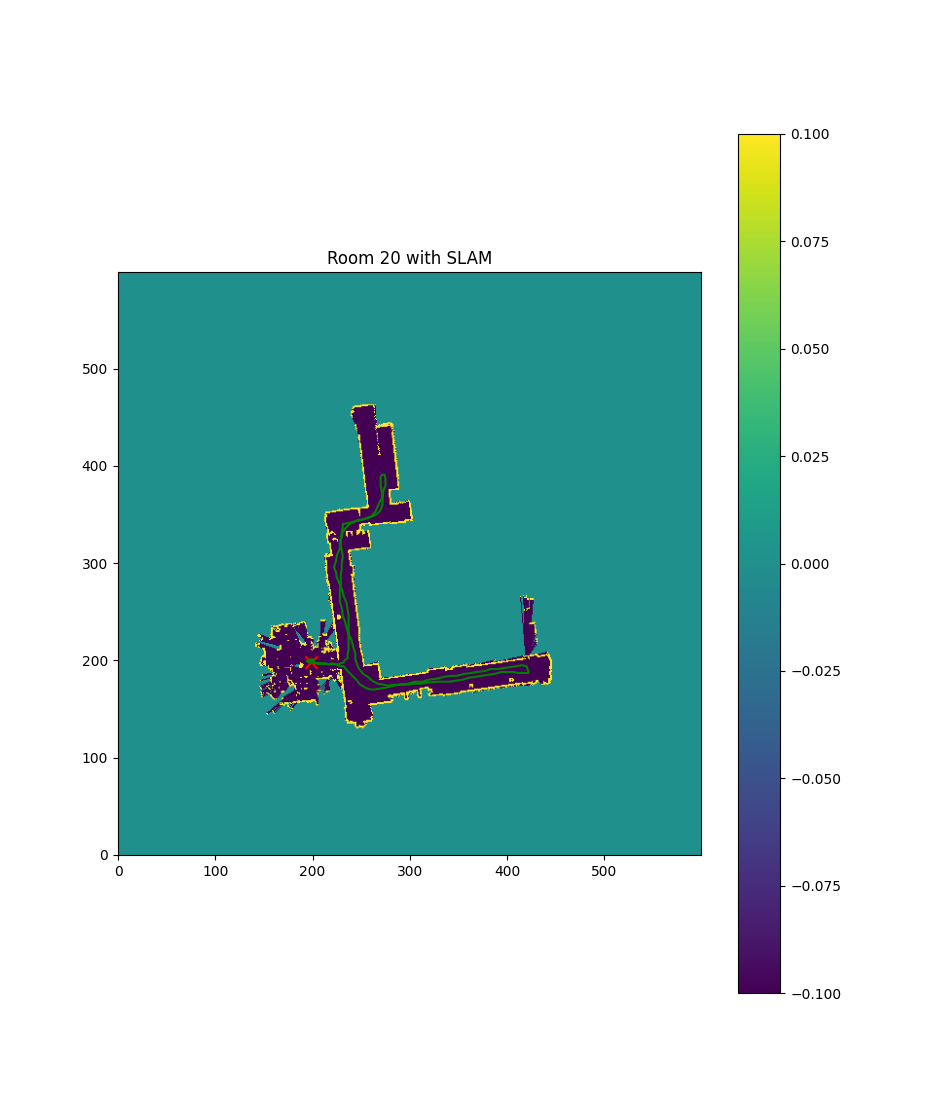
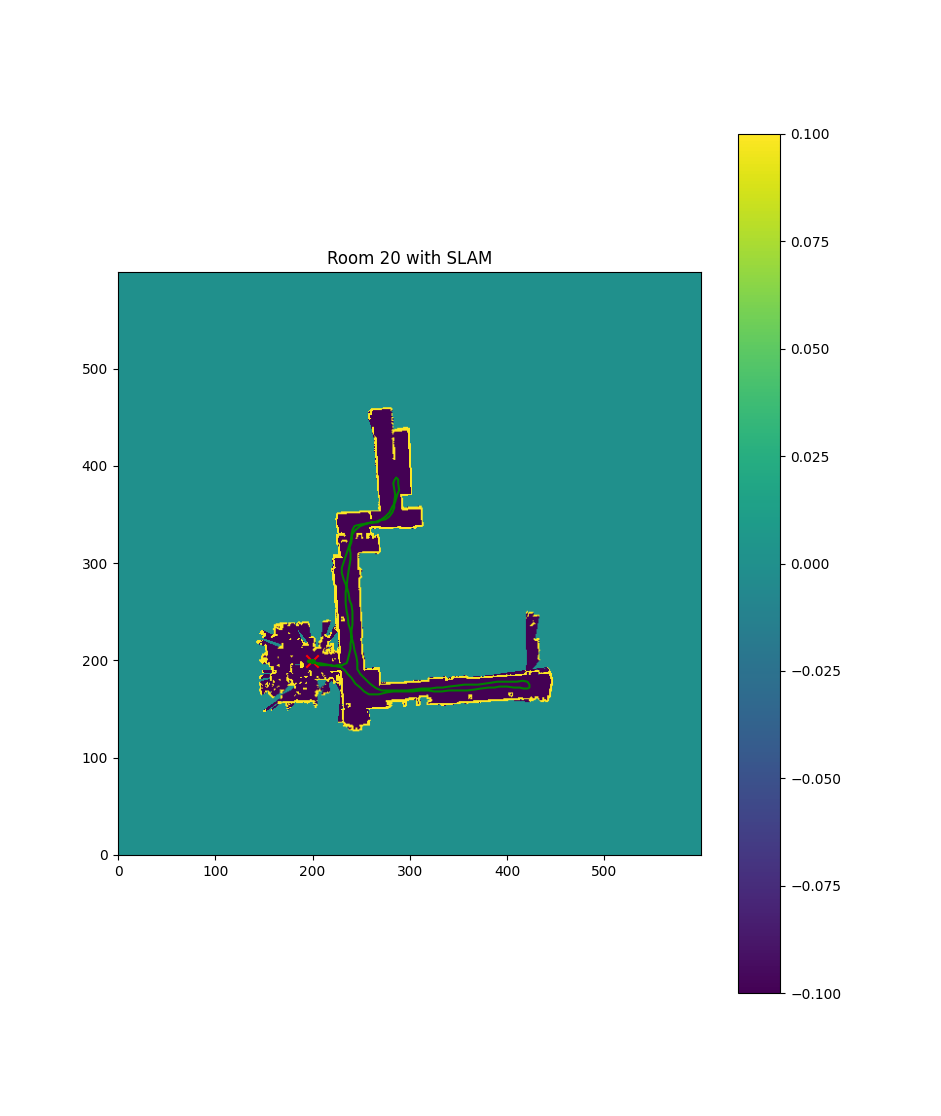
add test data results and clean up unused files from planning

Changed region(s): [[0.2774, 0.3656, 0.5855, 0.6703]]

diff --git a/scripts/run_slam.py b/scripts/run_slam.py
@@ -5,130 +5,120 @@ from slam_project.models.occupancy_grid import occupancy_grid
 from slam_project.localization import odometry as od
 from slam_project.io import load_data as ld
 
-# Noise Parameters
-movement_noise = 0.025
-angle_noise = 0.05
+def slam(room_name):
+    # Noise Parameters
+    movement_noise = 0.025
+    angle_noise = 0.05
 
-# Initialization (num_particles x (x,y,theta))
-num_particles = 100
-particles = np.zeros([num_particles, 3])
-particles[:, 0] = np.random.normal(0, movement_noise, num_particles)
-particles[:, 1] = np.random.normal(0, movement_noise, num_particles)
-particles[:, 2] = np.random.normal(0, angle_noise, num_particles)
-weights = np.ones(num_particles) * (1/num_particles)
+    # Initialization (num_particles x (x,y,theta))
+    num_particles = 100
+    particles = np.zeros([num_particles, 3])
+    particles[:, 0] = np.random.normal(0, movement_noise, num_particles)
+    particles[:, 1] = np.random.normal(0, movement_noise, num_particles)
+    particles[:, 2] = np.random.normal(0, angle_noise, num_particles)
+    weights = np.ones(num_particles) * (1/num_particles)
 
-# Odometry Step
-room_name = '23'
-enc_path = f'./data/train/Encoders{room_name}'
-imu_path = f'./data/train/imu{room_name}'
-lidar_path = f'./data/train/Hokuyo{room_name}'
-delta_forward, delta_perp, delta_theta, ts = od.compute_body_frame_odometry_at_lidar_times(
-    enc_path, imu_path, lidar_path, alpha=0.0
-)
+    # Odometry Step
+    room_name = room_name
+    enc_path = f'./data/Encoders{room_name}'
+    imu_path = f'./data/imu{room_name}'
+    lidar_path = f'./data/Hokuyo{room_name}'
+    delta_forward, delta_perp, delta_theta, ts = od.compute_body_frame_odometry_at_lidar_times(
+        enc_path, imu_path, lidar_path, alpha=0.0
+    )
 
-lidar = ld.get_lidar(lidar_path)
+    lidar = ld.get_lidar(lidar_path)
 
-best_grid = occupancy_grid(0, 0, 0.1, (-20,40), f"Room {room_name}")
-best_trajectory = []
+    best_grid = occupancy_grid(0, 0, 0.1, (-20,40), f"Room {room_name}")
+    best_trajectory = []
 
-# For each lidar scan:
-# 1. Predict each particle pose from odometry plus noise.
-# 2. Score each particle against the current map.
-# 3. Add only the best particle's scan to the map.
-# 4. Resample if the particle set has collapsed.
-num_scan = len(lidar)
-best_grid.init_live_plot()
-for idx, scan in enumerate(lidar):
-    # if (idx % 3 == 0):
-    #     continue
-    
-    d_forward = delta_forward[idx]
-    d_perp = delta_perp[idx]
-    dtheta = delta_theta[idx]
+    # For each lidar scan:
+    # 1. Predict each particle pose from odometry plus noise.
+    # 2. Score each particle against the current map.
+    # 3. Add only the best particle's scan to the map.
+    # 4. Resample if the particle set has collapsed.
+    num_scan = len(lidar)
+    best_grid.init_live_plot()
+    for idx, scan in enumerate(lidar):
+        # if (idx % 3 == 0):
+        #     continue
+        
+        d_forward = delta_forward[idx]
+        d_perp = delta_perp[idx]
+        dtheta = delta_theta[idx]
 
-    particle_hits = []
-    best_particle = particles[0]
+        particle_hits = []
+        best_particle = particles[0]
 
-    if (idx % 25 == 0):
-        best_grid.update_live_plot(best_particle[0], best_particle[1])
+        if (idx % 25 == 0):
+            best_grid.update_live_plot(best_particle[0], best_particle[1])
 
-    for p, particle in enumerate(particles):
-        theta_mid = particle[2] + 0.5 * dtheta
+        for p, particle in enumerate(particles):
+            theta_mid = particle[2] + 0.5 * dtheta
 
-        particle[0] += d_forward * np.cos(theta_mid) - d_perp * np.sin(theta_mid)
-        particle[1] += d_forward * np.sin(theta_mid) + d_perp * np.cos(theta_mid)
-        particle[2] += dtheta
+            particle[0] += d_forward * np.cos(theta_mid) - d_perp * np.sin(theta_mid)
+            particle[1] += d_forward * np.sin(theta_mid) + d_perp * np.cos(theta_mid)
+            particle[2] += dtheta
 
-        # Add motion noise after the deterministic odometry update.
-        particle[0] += np.random.normal(0, movement_noise)
-        particle[1] += np.random.normal(0, movement_noise)
-        particle[2] += np.random.normal(0, angle_noise)
+            # Add motion noise after the deterministic odometry update.
+            particle[0] += np.random.normal(0, movement_noise)
+            particle[1] += np.random.normal(0, movement_noise)
+            particle[2] += np.random.normal(0, angle_noise)
 
-        ox, oy = mp.lidar_hits_global(
-            scan,
-            particle[0],
-            particle[1],
-            particle[2],
-            res=1
-        )
-        ox_grid, oy_grid = best_grid.hits_to_grid_cells(ox, oy)
-        miss_x_grid, miss_y_grid = best_grid.miss_to_grid_cells(ox_grid, oy_grid, particle[0], particle[1])
-        particle_hits.append((ox, oy, ox_grid, oy_grid))
+            ox, oy = mp.lidar_hits_global(
+                scan,
+                particle[0],
+                particle[1],
+                particle[2],
+                res=1
+            )
+            ox_grid, oy_grid = best_grid.hits_to_grid_cells(ox, oy)
+            miss_x_grid, miss_y_grid = best_grid.miss_to_grid_cells(ox_grid, oy_grid, particle[0], particle[1])
+            particle_hits.append((ox, oy, ox_grid, oy_grid))
 
-        if ox_grid.size == 0:
-            likelihood = 1e-12
+            if ox_grid.size == 0:
+                likelihood = 1e-12
+            else:
+                # hits should be high score, misses should be low score
+                # added if and else statements incase no lidar hits or misses were found for some reason...
+                hit_score = np.mean(best_grid.grid[oy_grid, ox_grid]) if ox_grid.size else -5.0
+                miss_score = np.mean(best_grid.grid[miss_y_grid, miss_x_grid]) if miss_x_grid.size else 0.0
+                score = hit_score - miss_score
+                likelihood = np.exp(np.clip(score, -10, 10))
+
+            weights[p] *= likelihood
+
+        weight_sum = np.sum(weights)
+        if weight_sum == 0 or not np.isfinite(weight_sum):
+            weights = np.ones(num_particles) / num_particles
         else:
-            # hits should be high score, misses should be low score
-            # added if and else statements incase no lidar hits or misses were found for some reason...
-            hit_score = np.mean(best_grid.grid[oy_grid, ox_grid]) if ox_grid.size else -5.0
-            miss_score = np.mean(best_grid.grid[miss_y_grid, miss_x_grid]) if miss_x_grid.size else 0.0
-            score = hit_score - miss_score
-            likelihood = np.exp(np.clip(score, -10, 10))
+            weights /= weight_sum
 
-        weights[p] *= likelihood
+        # Add only the best particle's scan to the occupancy grid.
+        best_idx = np.argmax(weights)
+        best_particle = particles[best_idx]
+        best_trajectory.append(best_particle.copy())
+        best_ox, best_oy, _, _ = particle_hits[best_idx]
+        # print(f"best particle's weight = {weights[best_idx]}")
 
-    weight_sum = np.sum(weights)
-    if weight_sum == 0 or not np.isfinite(weight_sum):
-        weights = np.ones(num_particles) / num_particles
-    else:
-        weights /= weight_sum
+        # apply threshold on when best particle updates map, I want only highly confident particles to contribute
+        # threshold starts only after some warm-up period so that the particles can understand their starting pos.
+        if idx < 10 or weights[best_idx] >= 0.05:
+            best_grid.add_scan_hits(best_ox, best_oy, best_particle[0], best_particle[1])
 
-    # Add only the best particle's scan to the occupancy grid.
-    best_idx = np.argmax(weights)
-    best_particle = particles[best_idx]
-    best_trajectory.append(best_particle.copy())
-    best_ox, best_oy, _, _ = particle_hits[best_idx]
-    # print(f"best particle's weight = {weights[best_idx]}")
+        # Resample only when too few particles carry most of the weight.
+        n_eff = np.sum(weights)**2 / np.sum(weights ** 2)
+        if n_eff < 0.5 * num_particles:
+            indices = np.random.choice(
+                np.arange(num_particles),
+                size=num_particles,
+                p=weights,
+                replace=True,
+            )
+            particles = particles[indices].copy()
+            weights = np.ones(num_particles) / num_particles
 
-    # apply threshold on when best particle updates map, I want only highly confident particles to contribute
-    # threshold starts only after some warm-up period so that the particles can understand their starting pos.
-    if idx < 10 or weights[best_idx] >= 0.05:
-        best_grid.add_scan_hits(best_ox, best_oy, best_particle[0], best_particle[1])
-
-    # Resample only when too few particles carry most of the weight.
-    n_eff = np.sum(weights)**2 / np.sum(weights ** 2)
-    if n_eff < 0.5 * num_particles:
-        indices = np.random.choice(
-            np.arange(num_particles),
-            size=num_particles,
-            p=weights,
-            replace=True,
-        )
-        particles = particles[indices].copy()
-        weights = np.ones(num_particles) / num_particles
-
-# fig, ax = plt.subplots()
-# best_grid.plot(fig, ax, None, None)
-best_trajectory = np.asarray(best_trajectory)
-best_grid.add_traj_live_plot(f"./outputs/figures/SLAM_map_{room_name}")
-
-# plt.figure()
-# plt.plot(best_trajectory[:, 0], best_trajectory[:, 1], label="Best particle")
-# plt.scatter(best_trajectory[0, 0], best_trajectory[0, 1], c="green", label="start")
-# plt.scatter(best_trajectory[-1, 0], best_trajectory[-1, 1], c="red", label="end")
-# plt.axis("equal")
-# plt.xlabel("x (m)")
-# plt.ylabel("y (m)")
-# plt.title(f"Best Particle Trajectory: Room {room_name}")
-# plt.legend()
-# plt.show()
+    # fig, ax = plt.subplots()
+    # best_grid.plot(fig, ax, None, None)
+    best_trajectory = np.asarray(best_trajectory)
+    best_grid.add_traj_live_plot(f"./outputs/figures/SLAM_map_{room_name}")

diff --git a/tests/test_load_data.py b/tests/test_load_data.py
@@ -31,11 +31,11 @@ def replay_lidar(lidar_data):
 
 # this is just a test to make sure that this loading function doesn't error
 # the results aren't used anywhere
-acc_x, acc_y, acc_z, gyro_x, gyro_y, gyro_z, imu_ts	 = ld.get_imu('./data/train/imu20')
+acc_x, acc_y, acc_z, gyro_x, gyro_y, gyro_z, imu_ts	 = ld.get_imu('./data/imu20')
 # this is just a test to make sure that this loading function doesn't error
 # the results aren't used anywhere
-FL, FR, RL, RR, enc_ts = ld.get_encoder('./data/train/Encoders20')
+FL, FR, RL, RR, enc_ts = ld.get_encoder('./data/Encoders20')
 
 # load and display plots of the lidar data (robot fixed in center, walls moving around robot)
-lidar = ld.get_lidar('./data/train/Hokuyo20')
+lidar = ld.get_lidar('./data/Hokuyo20')
 replay_lidar(lidar)

diff --git a/scripts/run_odometry.py b/scripts/run_odometry.py
@@ -8,15 +8,15 @@ import matplotlib.pyplot as plt
 fig, ax = plt.subplots(1,1, figsize=(10,10))
 
 encodermats = [
-    './data/train/Encoders20',
-    './data/train/Encoders21',
-    './data/train/Encoders23'
+    './data/Encoders20',
+    './data/Encoders21',
+    './data/Encoders23'
 ]
 
 imumats = [
-    './data/train/imu20',
-    './data/train/imu21',
-    './data/train/imu23'
+    './data/imu20',
+    './data/imu21',
+    './data/imu23'
 ]
 
 for (path_enc, path_imu) in zip(encodermats, imumats):

diff --git a/scripts/run_mapping.py b/scripts/run_mapping.py
@@ -6,9 +6,9 @@ from slam_project.localization import odometry as od
 
 room_name = "23"
 
-lidar = ld.get_lidar(f'./data/train/Hokuyo{room_name}')
+lidar = ld.get_lidar(f'./data/Hokuyo{room_name}')
 
-X, Y, theta, timestamps = od.parse_encoders_IMU(f'./data/train/Encoders{room_name}', f'./data/train/imu{room_name}')
+X, Y, theta, timestamps = od.parse_encoders_IMU(f'./data/Encoders{room_name}', f'./data/imu{room_name}')
 
 fig, ax = plt.subplots(1,1,figsize=(10,10))
 

diff --git a/scripts/run_occupancy_grid.py b/scripts/run_occupancy_grid.py
@@ -10,8 +10,8 @@ SCALE = 0.1  # meters per box
 SCAN_IDX = 0
 
 room_name = "23"
-X, Y, theta, t = od.parse_encoders_IMU(f'./data/train/Encoders{room_name}', f'./data/train/imu{room_name}')
-lidar = ld.get_lidar(f'./data/train/Hokuyo{room_name}')
+X, Y, theta, t = od.parse_encoders_IMU(f'./data/Encoders{room_name}', f'./data/imu{room_name}')
+lidar = ld.get_lidar(f'./data/Hokuyo{room_name}')
 
 
 # grid = occupancy_grid(0, 0, SCALE, WORLD_BOUNDS)

diff --git a/tests/test_particle_filter.py b/tests/test_particle_filter.py
@@ -1,7 +1,7 @@
 from slam_project.localization import odometry as od
 
-enc_path   = './data/train/Encoders20'
-imu_path   = './data/train/imu20'
-lidar_path = './data/train/Hokuyo20'
+enc_path   = './data/Encoders20'
+imu_path   = './data/imu20'
+lidar_path = './data/Hokuyo20'
 
 od.parse_deltas_at_lidar_times(enc_path, imu_path, lidar_path)

diff --git a/utils/MapUtils/test_MapUtils.py b/utils/MapUtils/test_MapUtils.py
@@ -9,7 +9,7 @@ from mpl_toolkits.mplot3d import Axes3D
 import time
 import pdb
 # todo load mat
-dataIn = io.loadmat("./data/train/Hokuyo20.mat")
+dataIn = io.loadmat("./data/Hokuyo20.mat")
 ranges = np.array([dataIn['Hokuyo0']['ranges'][0][0][:,0]]).T
 angles = np.double(dataIn['Hokuyo0']['angles'][0][0])
 

diff --git a/utils/MapUtilsCython/test_getMapCellsFromRay.py b/utils/MapUtilsCython/test_getMapCellsFromRay.py
@@ -10,7 +10,7 @@ import time
 
 if __name__ == "__main__":
 
-    dataIn = io.loadmat("./data/train/Hokuyo20.mat")
+    dataIn = io.loadmat("./data/Hokuyo20.mat")
     speedup = np.zeros(10)
     for i in range(0, 10000, 1000):
         print(i)

diff --git a/scripts/evaluate_dataset.py b/scripts/evaluate_dataset.py
@@ -1,0 +1,11 @@
+from run_slam import slam
+
+def main():
+
+    room_names = ["20", "21", "22", "23", "24"]
+
+    for room_name in room_names:
+        slam(room_name)
+
+if __name__ == "__main__":
+    main()
